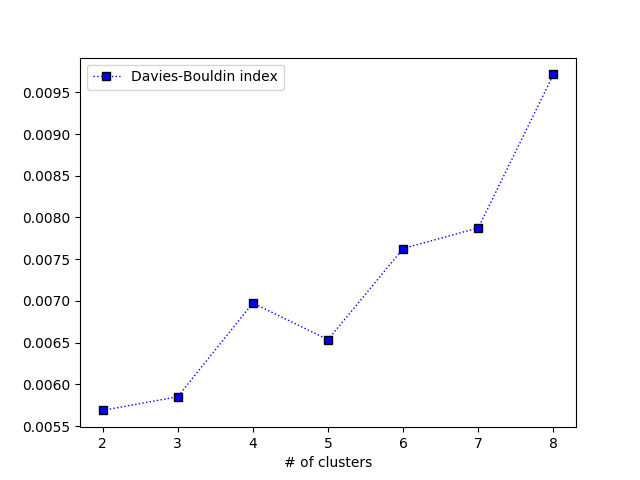
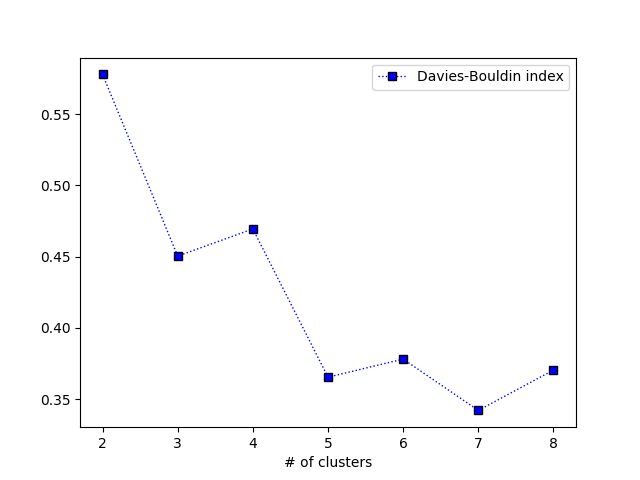
Task 4: bring back delta^2

diff --git a/task4/task4_internal.py b/task4/task4_internal.py
@@ -55,13 +55,13 @@ def load_clustered_data():
 
 
 def sq_dist(x1, x2):
-    return sum([v ** 2 for v in (x1 - x2)])
+    return np.sum([v ** 2 for v in (x1.ravel() - x2.ravel())])
 
 
 def calculate_davies_bouldin_index(X, k, clusters, centroids):
     def sigma(i):
         cluster_points = [X[j] for j in range(X.shape[0]) if clusters[j] == i]
-        return np.sqrt(np.sum([sq_dist(centroids[i], point) for point in cluster_points]) / len(cluster_points))
+        return np.sqrt(np.sum([sq_dist(centroids[i], point) ** 2 for point in cluster_points]) / len(cluster_points))
 
     def db_index_for_pair(i, j):
         return (sigma(i) + sigma(j)) / sq_dist(centroids[i], centroids[j])
@@ -84,7 +84,6 @@ def calculate_calinski_harabasz_score(X, k, clusters, centroids):
     total_mean = np.mean(X, axis=0)
     s_w = np.sum([s_w_for_cluster(i) for i in range(k)])
     s_b = np.sum([(len(cluster_points[i]) * sq_dist(centroids[i], total_mean)) for i in range(k)])
-    print(f"{s_w}\t{s_b}")
     return ((n - k) * s_b) / ((k - 1) * s_w)
 
 
@@ -100,7 +99,7 @@ def compress(centroids, clustered):
     print(f"Saved {output_image_name}")
 
 
-def decide_best_k(n_clusters, scores):
+def decide_best_k_ch(n_clusters, scores):
     def delta(i):
         return (scores[i + 1] - scores[i]) - (scores[i] - scores[i - 1])
 
@@ -114,10 +113,13 @@ def decide_best_k(n_clusters, scores):
 
 # Calculate and save metrics
 X, cluster_data = load_clustered_data()
+print("Calculating DB scores...")
 db_scores = [calculate_davies_bouldin_index(X, k, cluster_data[k]['clusters'], cluster_data[k]['centroids'])
              for k in n_clusters]
+print("Done. Calculating CH scores...")
 ch_scores = [calculate_calinski_harabasz_score(X, k, cluster_data[k]['clusters'], cluster_data[k]['centroids'])
              for k in n_clusters]
+print("Done.")
 np.savetxt(f"{prefix}policemen/db.txt", X=db_scores, delimiter='\t')
 np.savetxt(f"{prefix}policemen/ch.txt", X=ch_scores, delimiter='\t')
 
@@ -144,9 +146,9 @@ plt.show()
 # Decide the best number of clusters
 # Suppressed warnings below: np.argmin/argmax returns a scalar value here
 # noinspection PyTypeChecker
-best_k_db = decide_best_k(n_clusters, db_scores)
+best_k_db = n_clusters[np.argmin(db_scores)]
 # noinspection PyTypeChecker
-best_k_ch = decide_best_k(n_clusters, ch_scores)
+best_k_ch = decide_best_k_ch(n_clusters, ch_scores)
 print(f"Best # of clusters, based on Davies-Bouldin index, is {best_k_db}")
 print(f"Best # of clusters, based on Calinski-Harabasz score, is {best_k_ch}")
 
